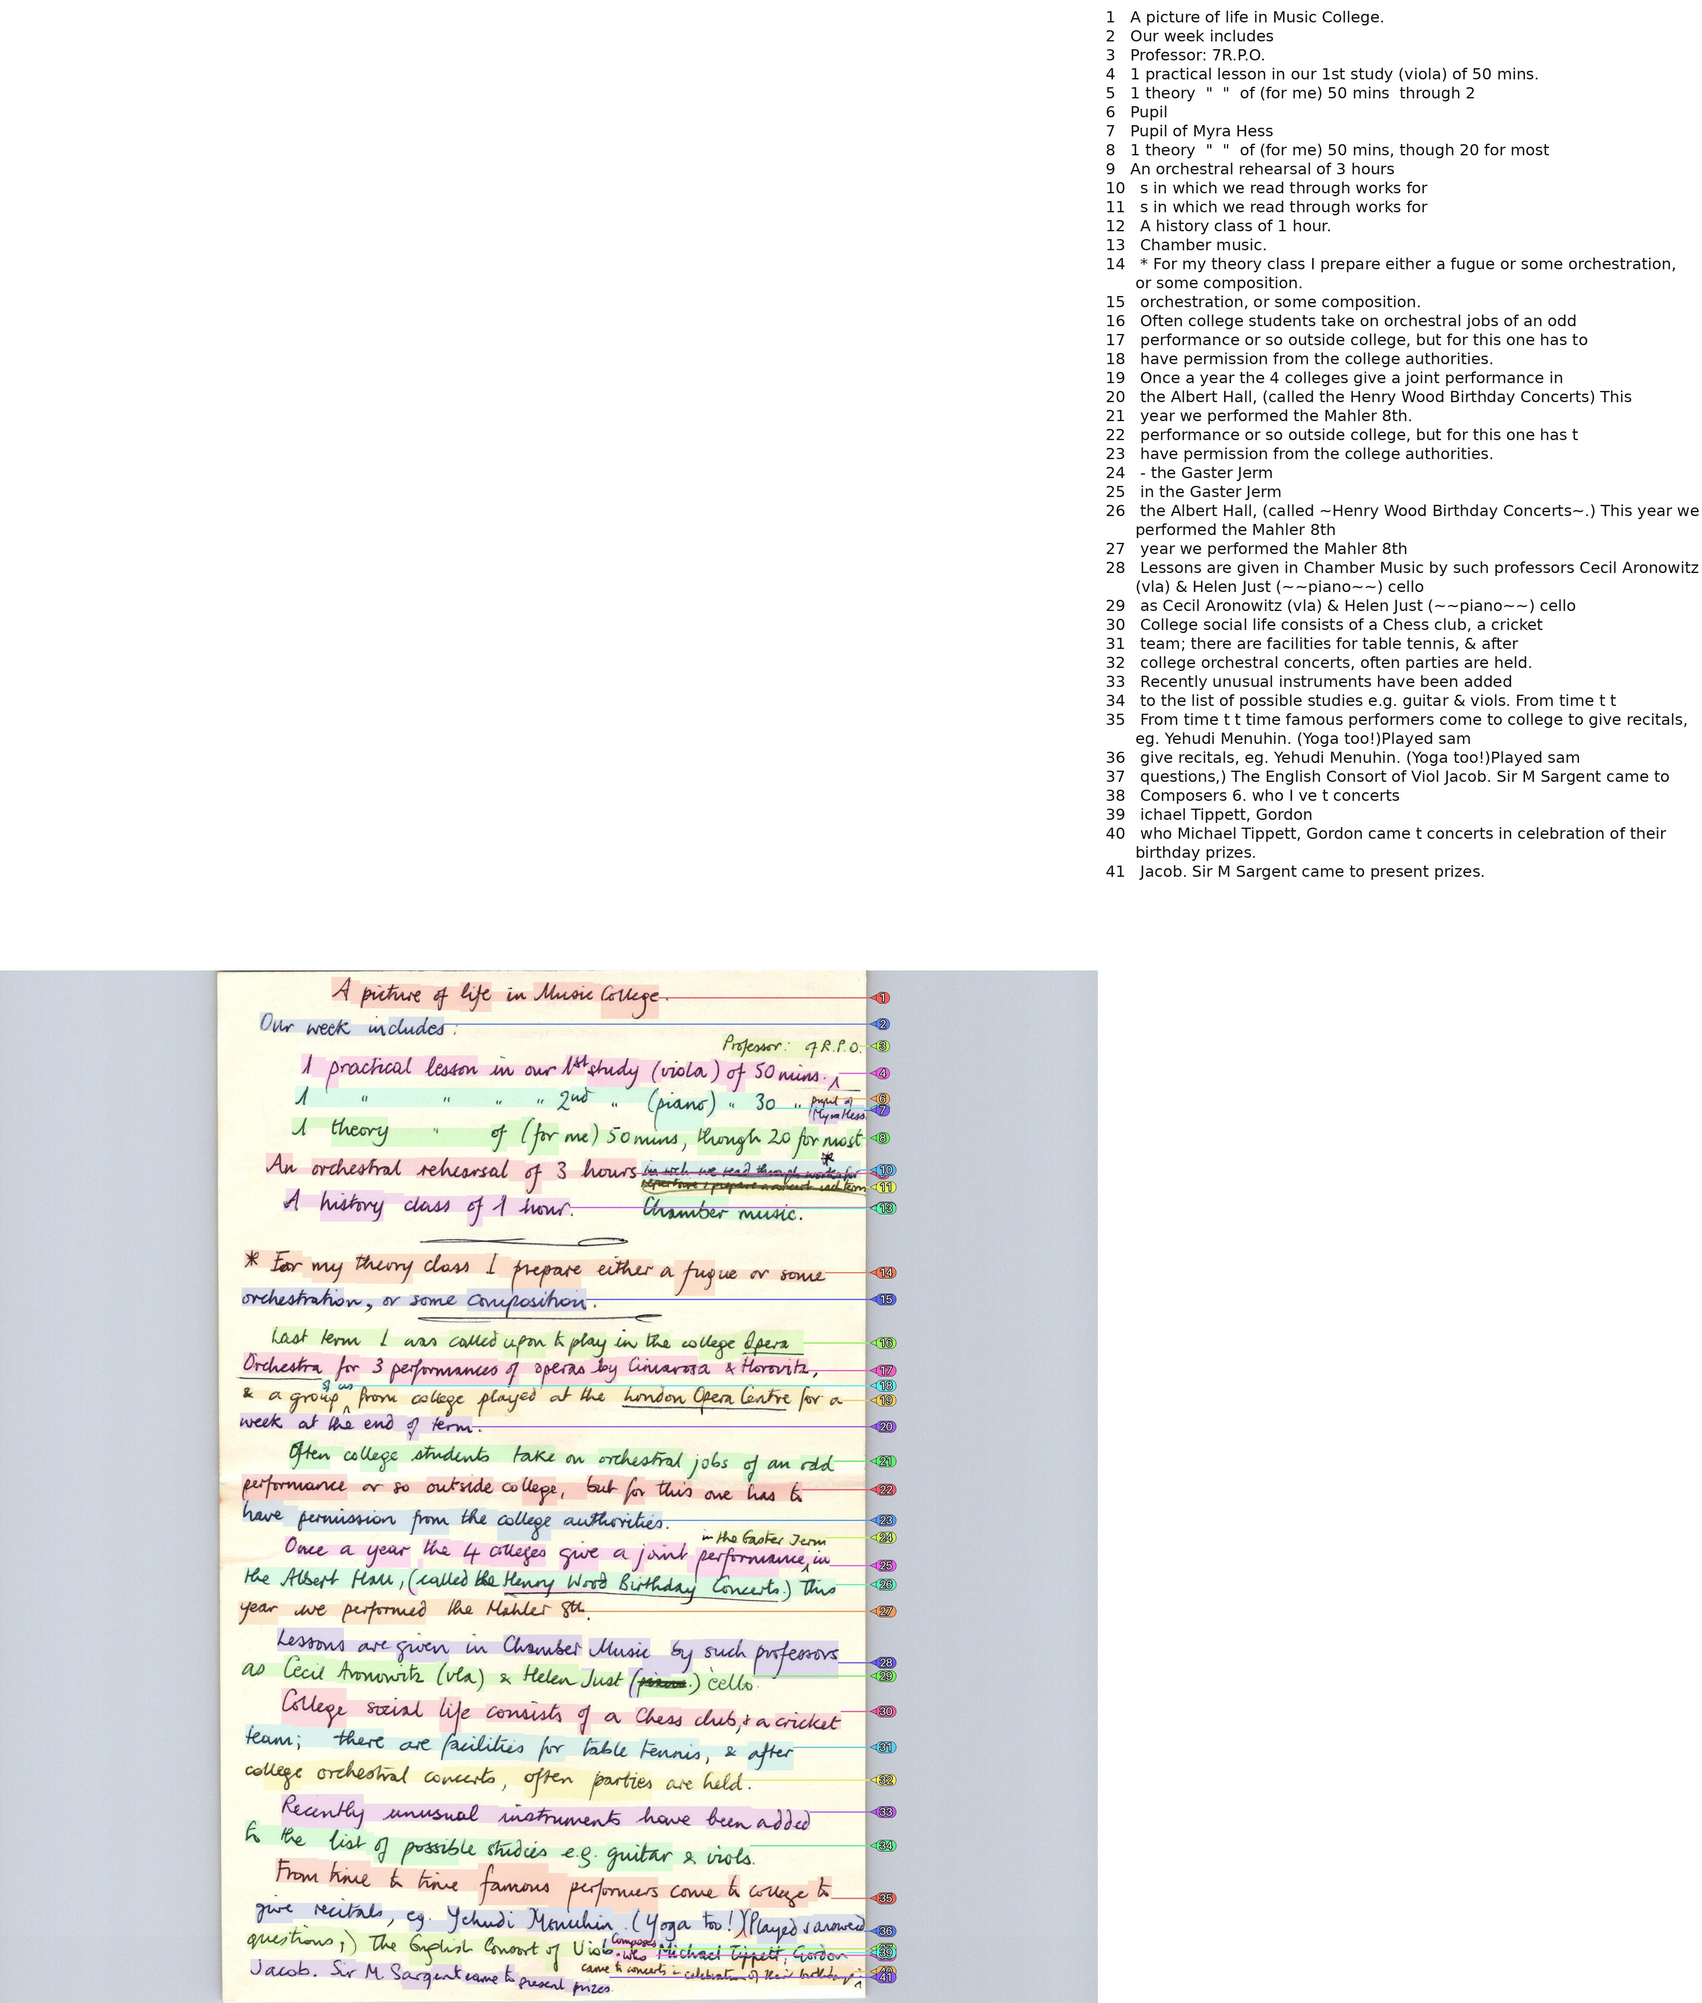
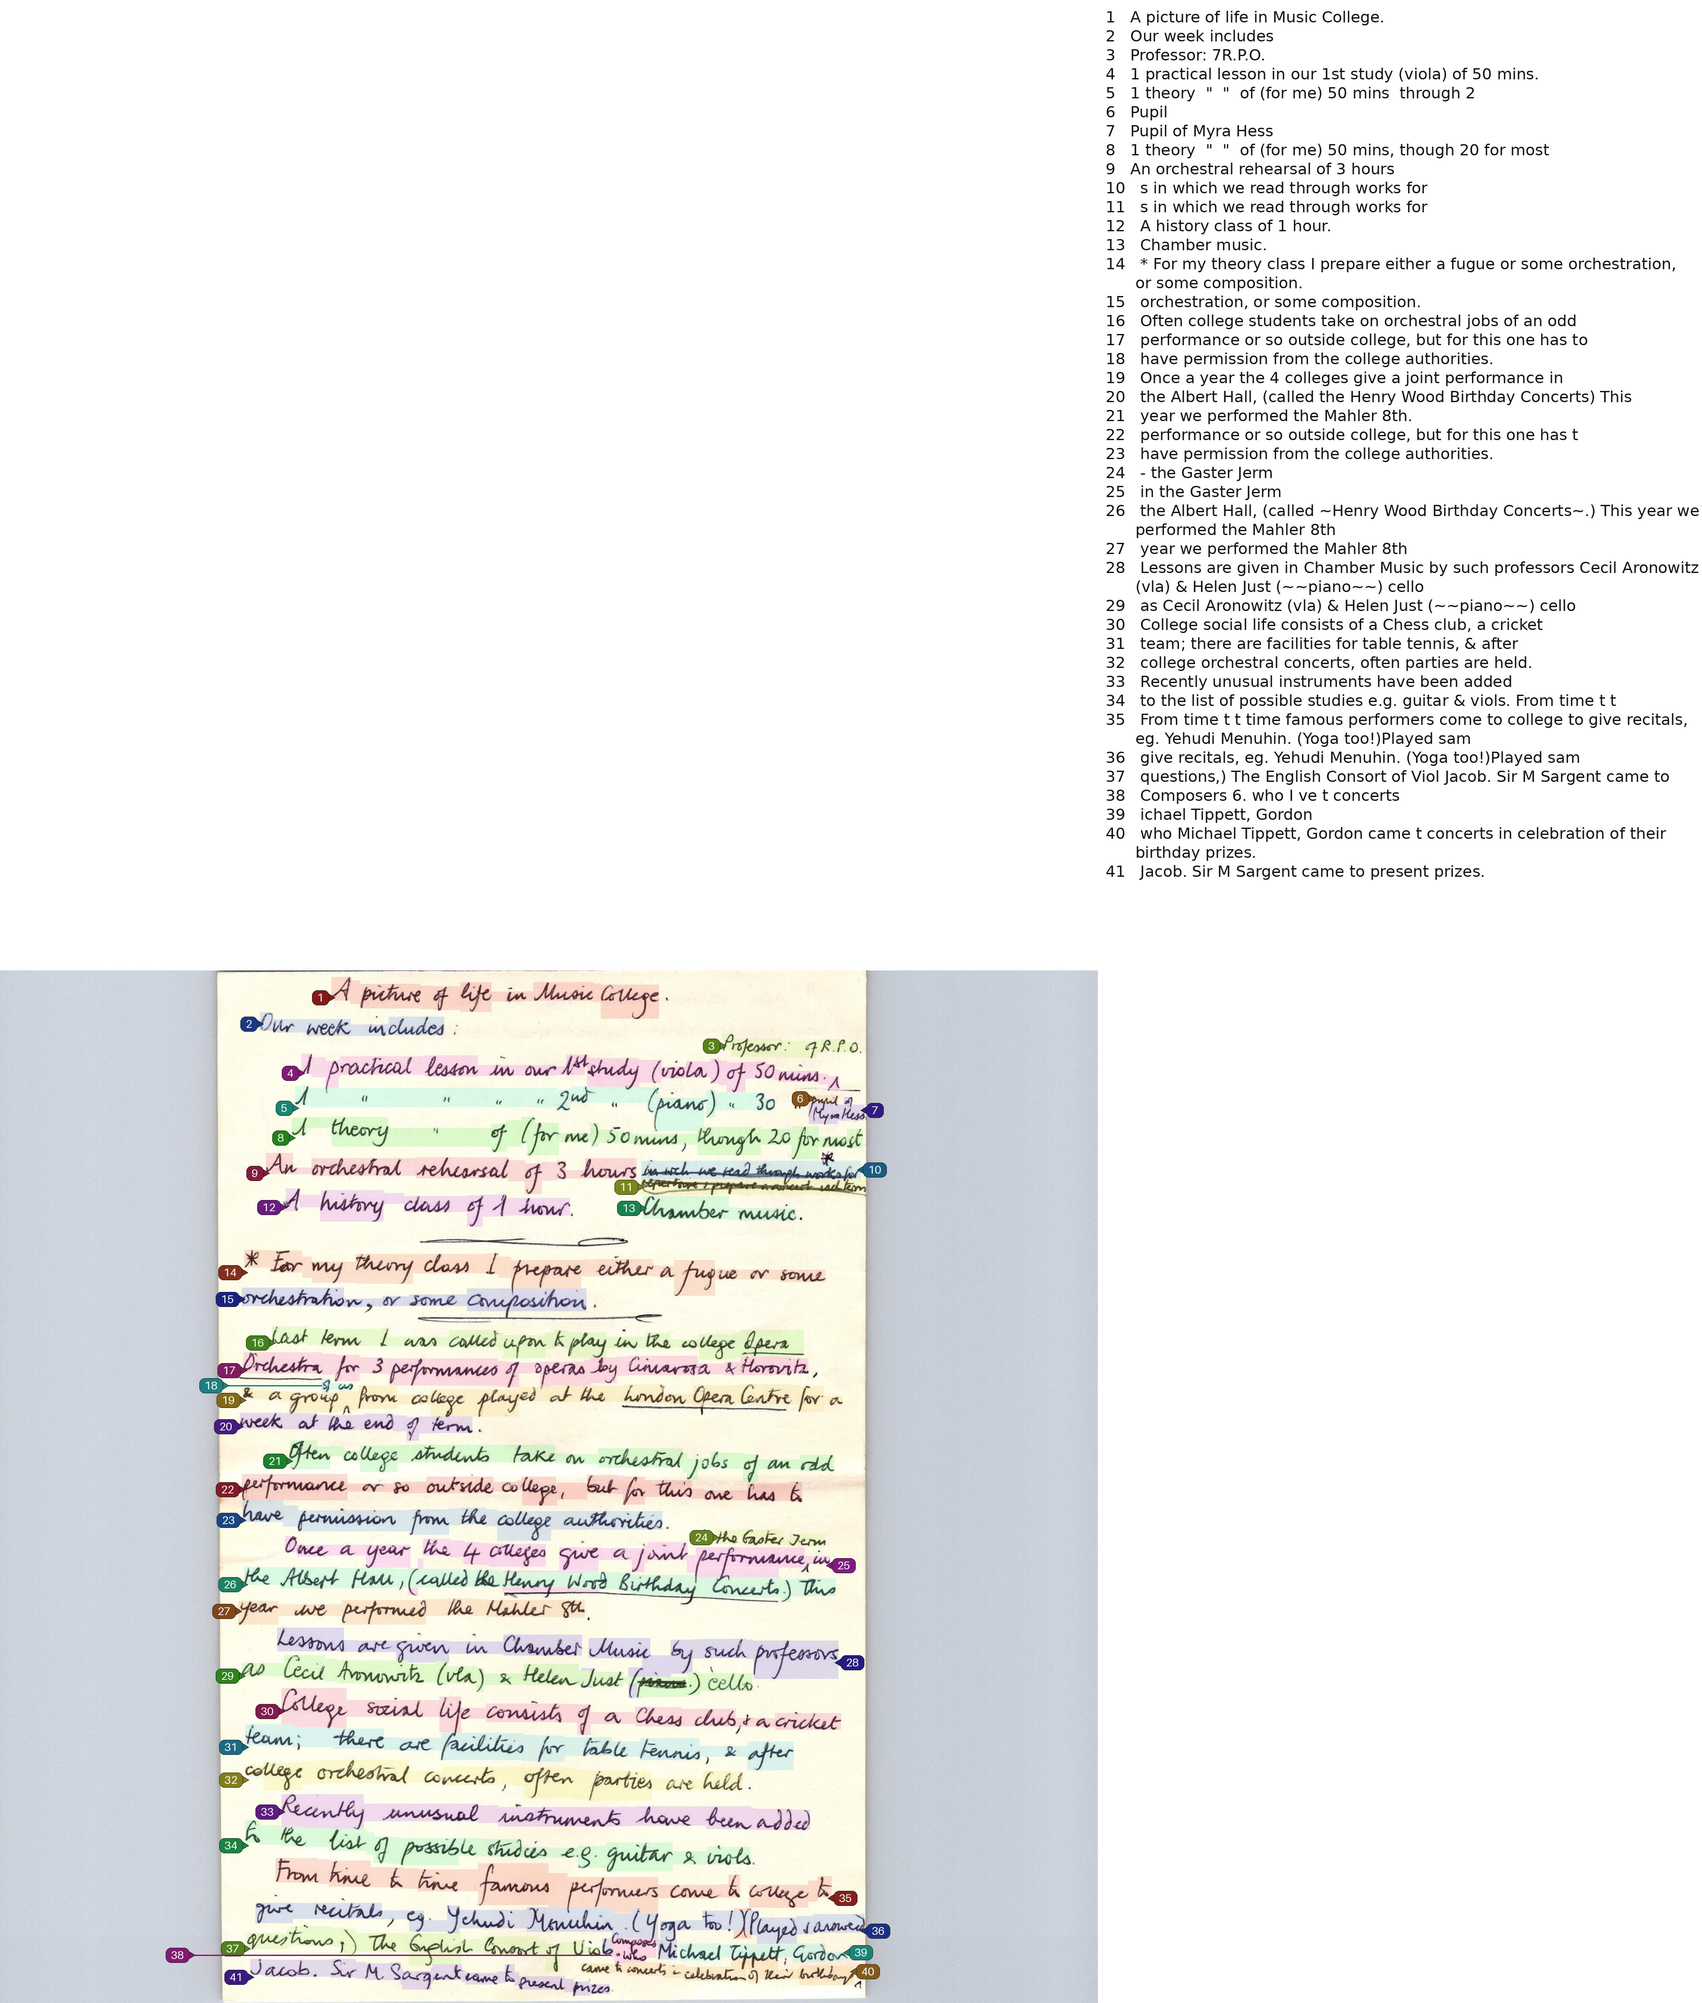
fix: the numbers point at their own rows, in their own rows' colours
Three things the user could see on the sheet, all three now measured by
tests rather than argued about:

1. The pointer was drawn on the pill's left edge whatever side the pill was
   on, so the 33 numbers sitting left of their row pointed away from it. The
   pointer and the leader now go on the edge the row lies beyond, and the
   leader still stops at the row's nearest edge.

2. The darkening clamped channels (`min(0.72, 200/max(rgb))`), which shrinks
   the dominant channel first — a yellow pill came out brown and stopped
   being its band's colour. The pill is now the palette's own hue at full
   saturation and reduced value (HSV), so it reads as the band's colour
   strengthened; white digits still read on every hue.

3. A number that found no room beside its row stepped DOWN to the next free
   height, which is how 38's number ended up beside 39. It now steps OUT into
   the page's left margin lane by lane and never moves up or down: the
   largest offset from a number's own row is 0px, was 36.

Measured on page-01: 33 numbers left of their row, 8 to the right, every pill
level with its own row (0.0px), no pill over ink, no pill on another pill.

diff --git a/document/numbered_rows.py b/document/numbered_rows.py
@@ -17,6 +17,8 @@ app writes them where the front end needs them).
 
 from __future__ import annotations
 
+import colorsys
+
 from PIL import Image, ImageDraw
 
 from tools.rectangle import Rectangle, overlaps
@@ -51,6 +53,18 @@ STRIPS = 3
 BAND_OVERLAP = 0  # px: bands are exclusive; a row is numbered in exactly one
 INK_MARGIN = 40  # px: air either side of the writing — the numbers reach into it,
 # and `numbers_extent` widens this left edge when a stepped pill needs more
+
+# The pill is the row's OWN colour at full strength, not a darkened copy of it:
+# clamping the channels (what this used to do) shrinks the dominant channel
+# first, so a yellow pill came out brown and stopped matching its band. The hue
+# is kept and only the value moves, which is what "the same colour, darker"
+# means. White digits read at this value on every hue the palette holds.
+PILL_SATURATION = 0.80
+PILL_VALUE = 0.52
+# A number that cannot sit beside its row steps OUT into the margin, lane by
+# lane, and never up or down: a number level with the wrong row points at the
+# wrong row (the user saw 38 beside 39). The lanes run out at the page's edge.
+MARGIN_LANES = 16
 
 
 class NumberedRows:
@@ -147,29 +161,24 @@ class NumberedRows:
     def _pill_boxes(cls, rows: list[Row]) -> list[Rectangle]:
         """Where every number's pill lands — the placement, without painting.
 
-        Each pill sits on its own row's top-left corner (the review surface's
-        `.rv-rownum`); one that would land on another steps OUTWARD into the
-        margin, keeping its own row's height, so the pairing stays exact and no
-        number is ever hidden or cut."""
+        The order is the review surface's own: 1. directly LEFT of the row it
+        labels; 2. directly RIGHT of it when the left is taken (a line's ink
+        reaches into the gap either side); 3. the page's LEFT margin, lane by
+        lane outward. A number never moves up or down to find room: level with
+        the wrong row, it points at the wrong row."""
         draw = ImageDraw.Draw(Image.new("RGB", (1, 1)))
         font = _font()
         boxes: list[Rectangle] = []
         ink = [w.rect for r in rows for w in r.word_boxes]
         margin = _margin_column(rows, width=PILL_MIN_WIDTH + 2 * PILL_PAD_X + 12)
         for row in rows:
-            text = str(row.number)
-            measured = draw.textbbox((0, 0), text, font=font)
+            measured = draw.textbbox((0, 0), str(row.number), font=font)
             width = max(PILL_MIN_WIDTH, (measured[2] - measured[0]) + 2 * PILL_PAD_X)
             height = (measured[3] - measured[1]) + 2 * PILL_PAD_Y
             centre = (row.band.y0 + row.band.y1) / 2
             top = centre - height / 2 - PILL_LIFT
             left_edge = min((w.rect.x0 for w in row.word_boxes), default=row.band.x0)
             right_edge = max((w.rect.x1 for w in row.word_boxes), default=row.band.x1)
-            # 1. directly LEFT of the row it labels (the review surface's own
-            # side); 2. directly RIGHT of it when the left is taken — a line's
-            # ink reaches into the gap either side; 3. the page's left margin,
-            # which no number can cover. Never on top of another number: the
-            # pairing is carried by the leader line, not by position alone.
             beside = next(
                 (
                     Rectangle(candidate, top, candidate + width, top + height)
@@ -181,9 +190,30 @@ class NumberedRows:
             if beside is not None:
                 boxes.append(beside)
                 continue
-            at_margin = Rectangle(margin, top, margin + width, top + height)
-            boxes.append(_nudged(at_margin, ink, boxes) or _pushed_down(at_margin, ink, boxes))
+            boxes.append(_in_lane(Rectangle(margin, top, margin + width, top + height), ink, boxes))
         return boxes
+
+    @classmethod
+    def hue_of(cls, index: int) -> float:
+        """The hue of the row at this index — the palette band's own, so a
+        number and its band are one colour."""
+        red, green, blue, _alpha = RenderStyle().colour(index)
+        return colorsys.rgb_to_hsv(red / 255, green / 255, blue / 255)[0]
+
+    @classmethod
+    def pill_colour(cls, index: int) -> tuple[int, int, int]:
+        """The row's hue at full strength: white digits read on it and it is
+        still the row's colour, which a channel-clamped darkening is not."""
+        red, green, blue = colorsys.hsv_to_rgb(cls.hue_of(index), PILL_SATURATION, PILL_VALUE)
+        return int(red * 255), int(green * 255), int(blue * 255)
+
+    @classmethod
+    def pointer_side(cls, box: Rectangle, row: Row) -> str:
+        """Which edge of the number faces its row — the edge the pointer is
+        drawn on and the leader leaves from. A number left of its row points
+        right, one right of it points left; pointed the other way it aims at
+        nothing, which is what the user saw on every number on the page."""
+        return "right" if (box.x0 + box.x1) / 2 < (row.band.x0 + row.band.x1) / 2 else "left"
 
     @classmethod
     def _draw(cls, canvas: Image.Image, rows: list[Row], *, offset_y: float) -> NumberedRows:
@@ -192,31 +222,28 @@ class NumberedRows:
         numbers = {row.id: row.number for row in rows}
         draw = ImageDraw.Draw(canvas)
         font = _font()
-        style = RenderStyle()
         for index, (row, box) in enumerate(zip(rows, cls._pill_boxes(rows), strict=False)):
             left, top, right, bottom = box.x0, box.y0 - offset_y, box.x1, box.y1 - offset_y
             measured = draw.textbbox((0, 0), str(row.number), font=font)
-            # the row's OWN hue at full strength (the band is the same colour
-            # washed out): the pill and its band are one colour, so a number
-            # can be matched to its line by colour alone
-            red, green, blue, _alpha = style.colour(index)
-            # the row's hue, taken down until white type reads on it: the
-            # palette has light hues (a yellow) where white on the raw colour
-            # is unreadable, and an outline round the digits was worse still
-            shade = min(0.72, 200 / max(red, green, blue, 1))
-            fill = (int(red * shade), int(green * shade), int(blue * shade))
-            # the leader reaches the NEAREST edge of its row: drawn to the far
-            # one it crossed the writing it is meant to point at
+            # the row's own hue at full strength: the pill and its band are one
+            # colour, so a number can be matched to its line by colour alone
+            fill = cls.pill_colour(index)
             edge_left = min((word.x0 for word in row.word_boxes), default=row.band.x0)
             edge_right = max((word.x1 for word in row.word_boxes), default=row.band.x1)
-            row_edge = edge_left if left < edge_left else edge_right
             centre_y = (top + bottom) / 2
-            draw.line([(row_edge, centre_y), (left, centre_y)], fill=fill, width=3)
+            # the pointer and the leader both sit on the side the row lies
+            # beyond, and the leader stops at the row's NEAREST edge — drawn to
+            # the far one it crossed the writing it is meant to point at
+            if cls.pointer_side(box, row) == "left":
+                tip, root, row_edge = left - PILL_POINTER, left, edge_right
+            else:
+                tip, root, row_edge = right + PILL_POINTER, right, edge_left
+            draw.line([(row_edge, centre_y), (root, centre_y)], fill=fill, width=3)
             draw.polygon(
                 [
-                    (left - PILL_POINTER, centre_y),
-                    (left, top + (bottom - top) / 4),
-                    (left, bottom - (bottom - top) / 4),
+                    (tip, centre_y),
+                    (root, top + (bottom - top) / 4),
+                    (root, bottom - (bottom - top) / 4),
                 ],
                 fill=fill,
                 outline=(30, 30, 30),
@@ -239,30 +266,25 @@ class NumberedRows:
 # a number's box, the ink on the page, and the numbers already placed are three
 # things, not one clump: the box is a `Rectangle` (the geometry the model
 # already has) and the other two are the lists it must stay clear of
-# lucidlint: ignore latent-class a box and the two things it must avoid are the signature
 def _fits(box: Rectangle, ink: list[Rectangle], placed: list[Rectangle]) -> bool:
     """Whether a number's box would cover ink or another number."""
     return not any(overlaps(box, other) for other in [*ink, *placed])
 
 
-def _nudged(box: Rectangle, ink: list[Rectangle], placed: list[Rectangle]) -> Rectangle | None:
-    """The box moved down to the nearest height where it meets nothing — it
-    steps by its own height, so its row is still the closest one and the leader
-    line says which."""
-    for step in range(0, 40):
-        move = step * (box.height + 2)
-        candidate = Rectangle(box.x0, box.y0 + move, box.x1, box.y1 + move)
+def _in_lane(box: Rectangle, ink: list[Rectangle], placed: list[Rectangle]) -> Rectangle:
+    """The box in the first free lane of the margin, at its own height.
+
+    Lanes run outward from the writing's widest line; the page's left margin is
+    wide, and a number further out is still unmistakably its row's. Stepping up
+    or down instead is what put 38's number beside 39.
+    """
+    for lane in range(MARGIN_LANES):
+        left = box.x0 - lane * (box.width + COLUMN_GAP)
+        if left < 0:
+            break
+        candidate = Rectangle(left, box.y0, left + box.width, box.y1)
         if _fits(candidate, ink, placed):
             return candidate
-    return None
-
-
-def _pushed_down(box: Rectangle, ink: list[Rectangle], placed: list[Rectangle]) -> Rectangle:
-    """The box moved down until it meets nothing: the least movement that keeps
-    every number readable. Two numbers on top of each other are two numbers
-    nobody can read, which is how rows 6 and 7 went missing."""
-    while not _fits(box, ink, placed):
-        box = Rectangle(box.x0, box.y0 + box.height + 2, box.x1, box.y1 + box.height + 2)
     return box
 
 

diff --git a/tests/test_numbered_rows.py b/tests/test_numbered_rows.py
@@ -12,6 +12,7 @@ small synthetic rows pin the placement order itself.
 
 from __future__ import annotations
 
+import colorsys
 from pathlib import Path
 
 from PIL import Image
@@ -133,3 +134,45 @@ def test_the_bands_hold_every_number_and_all_the_writing() -> None:
         assert strip.numbers, "a band with no numbers is a wasted look"
     assert spread[0] < min(word.x0 for word in ink), "the numbers must reach left of all the writing"
     assert sum(len(strip.numbers) for strip in strips) >= len(rows)
+
+
+def test_no_number_leaves_its_own_rows_height() -> None:
+    """A number level with the wrong row points at the wrong row: the user saw
+    38 sitting beside 39. A number that cannot fit beside its row steps OUT
+    into the margin, never up or down."""
+    rows = _page01_rows()
+    boxes = NumberedRows._pill_boxes(rows)
+    for row, box in zip(rows, boxes, strict=False):
+        centre = (row.band.y0 + row.band.y1) / 2
+        pill_centre = (box.y0 + box.y1) / 2
+        assert abs(pill_centre - centre) <= 20, (
+            f"number {row.number} sits {pill_centre - centre:.0f}px off its row's height"
+        )
+
+
+def test_the_number_points_at_its_own_row() -> None:
+    """The pointer is what says which row a number belongs to, so it is drawn on
+    the edge the row lies beyond — pointing left at a row on the right is a
+    number pointing at nothing."""
+    rows = _page01_rows()
+    boxes = NumberedRows._pill_boxes(rows)
+    for row, box in zip(rows, boxes, strict=False):
+        row_centre = (row.band.x0 + row.band.x1) / 2
+        pill_centre = (box.x0 + box.x1) / 2
+        expected = "right" if pill_centre < row_centre else "left"
+        assert NumberedRows.pointer_side(box, row) == expected, (
+            f"number {row.number} at x{pill_centre:.0f} points the wrong way at its row (x{row_centre:.0f})"
+        )
+
+
+def test_a_number_carries_its_own_rows_hue() -> None:
+    """The pill and the band are the same colour so the pairing can be read by
+    colour alone. Darkening by clamping channels shifts the hue and the pair
+    stops matching; the hue must survive."""
+    rows = _page01_rows()
+    for index, row in enumerate(rows):
+        band_hue = NumberedRows.hue_of(index)
+        red, green, blue = NumberedRows.pill_colour(index)
+        pill_hue = colorsys.rgb_to_hsv(red / 255, green / 255, blue / 255)[0]
+        turn = abs(((band_hue - pill_hue) + 0.5) % 1.0 - 0.5)
+        assert turn < 0.02, f"row {row.number}: the number's hue is {turn:.3f} of a turn from its band's"
